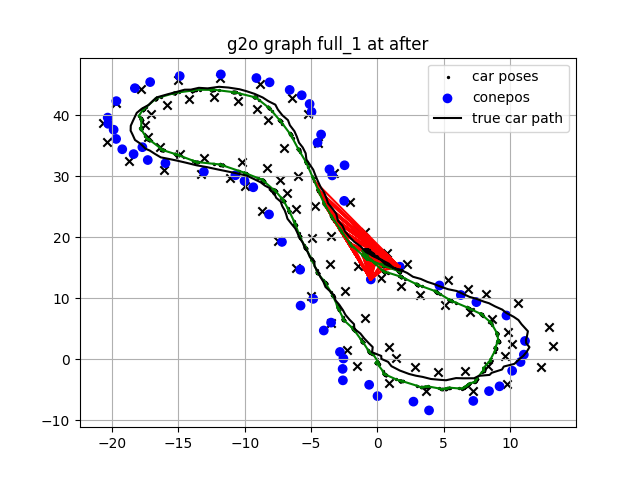
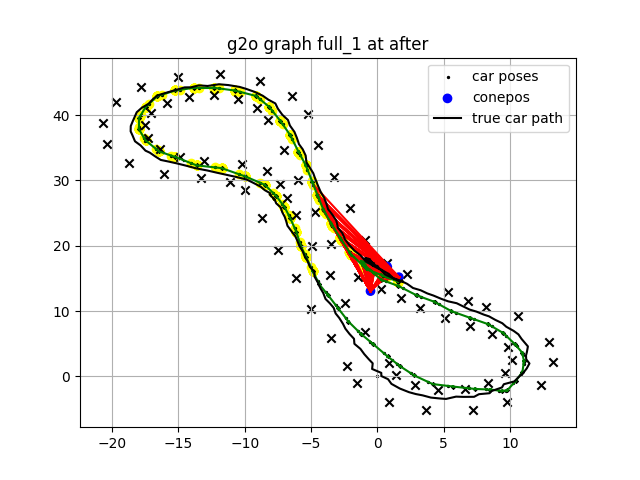
minor adjustments to new g2o setup

diff --git a/test_SLAM.py b/test_SLAM.py
@@ -754,10 +754,11 @@ def heading_error_in_g2o(name="full_1"):
 
 
 def main():
-    name = "slam_True_Flse_Flse__before.g2o"
+    #name = "slam_True_Flse_Flse__before.g2o"
+    name = "slam_True_True_Flse__before.g2o"
     #heading_error_in_g2o(name)
     display_g2o_graph(name)
-    name = "slam_True_Flse_Flse__after.g2o"
+    name = "slam_True_True_Flse__after.g2o"
     heading_error_in_g2o(name)
     display_g2o_graph(name)
 

diff --git a/util.py b/util.py
@@ -5,7 +5,7 @@ import numpy as np
 import scipy.optimize
 
 #project_root_path = pathlib.Path("C:/Users/johan/PycharmProjects/FS_autonomous_pyutil/")
-project_root_path = pathlib.Path("C:/Users/Idefix/PycharmProjects/tmpProject/")
+project_root_path = pathlib.Path("C:/Users/Idefix/PycharmProjects/eTeam_pyutil/")
 def getType(x):
     """
     :param x:
